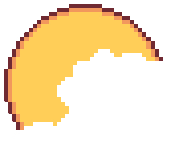
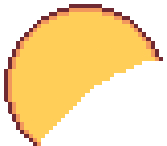
sun

Changed region(s): [[0.0, 0.0, 0.988, 1.0]]

diff --git a/style.css b/style.css
@@ -68,7 +68,7 @@ body::after {
     position: absolute;
     top: calc((100vh - ((402/500) * 60vh)) / 2);
     left: calc((100vw - 60vh) / 2);
-    z-index: 19;
+    z-index: 40;
     width: 60vh;
 }
 #logo {
@@ -195,30 +195,48 @@ body::after {
 }
 
 @keyframes jiggle {
-  10% {transform: translate3d(-1px, -1px, 0);}
+  10% {transform: translate3d(-1px, 0px, 0);}
   
-  20% {transform: translate3d(1px, 1px, 0);}
+  20% {transform: translate3d(0px, 2px, 0);}
 
-  30% {transform: translate3d(-1px, -1px, 0);}
+  30% {transform: translate3d(-1px, 0px, 0);}
 
-  40% {transform: translate3d(1px, 1px, 0);}
+  40% {transform: translate3d(0px, 2px, 0);}
   
-  50% {transform: translate3d(-1px, -1px, 0);}
+  50% {transform: translate3d(-1px, 0px, 0);}
   
-  60% {transform: translate3d(1px, 1px, 0);}
+  60% {transform: translate3d(0px, 2px, 0);}
   
-  70% {transform: translate3d(-1px, -1px, 0);}
+  70% {transform: translate3d(-1px, 0px, 0);}
   
-  80% {transform: translate3d(1px, 1px, 0);}
+  80% {transform: translate3d(0px, 2px, 0);}
   
-  90% {transform: translate3d(-1px, -1px, 0);}
+  90% {transform: translate3d(-1px, 0px, 0);}
 }
 
 .leaf:active { 
-   transform-origin: center;
+   transform-origin: bottom;
    animation-fill-mode: both;
    animation-name: jiggle;
    animation-duration: 0.82s;
    animation-timing-function: cubic-bezier(.36, .07, .19, .97);
    transform: translate3d(0, 0, 0);
+}
+
+@keyframes suncomeup {
+    from {opacity: 0; transform: rotate(30deg); z-index: 1;}
+    to {opacity: 1; transform: rotate(0deg); z-index: 41;}
+}
+
+#sun {
+    content: url("assets/sun.png");
+    position: absolute;
+    top: calc(((100vh - ((146 / 500) * 60vh)) / 2) - ((128 / 500) * 60vh));
+    left: calc(((100vw - ((167 / 500) * 60vh)) / 2) - (((181 - (167 / 2)) / 500) * 60vh));
+    width: calc((167 / 500) * 60vh);
+    z-index: 1;
+    opacity: 0;
+    transform-origin: 23.952095808% 99.315068493%;
+    animation: suncomeup 20s ease-out 4s 1;
+    animation-fill-mode: forwards;
 }

diff --git a/mobile123.css b/mobile123.css
@@ -39,3 +39,9 @@
     width: calc((208 / 500) * 45vh);
 }
 
+#sun {
+    top: calc(((100vh - ((146 / 500) * 45vh)) / 2) - ((128 / 500) * 45vh));
+    left: calc(((100vw - ((167 / 500) * 45vh)) / 2) - (((181 - (167 / 2)) / 500) * 45vh));
+    width: calc((167 / 500) * 45vh);
+}
+

diff --git a/index.html b/index.html
@@ -25,6 +25,7 @@
             <img id="right-leaf" class="leaf">
         </div>
         <img id="shamrock">
+        <img id="sun">
     </div>
 </body>
 
